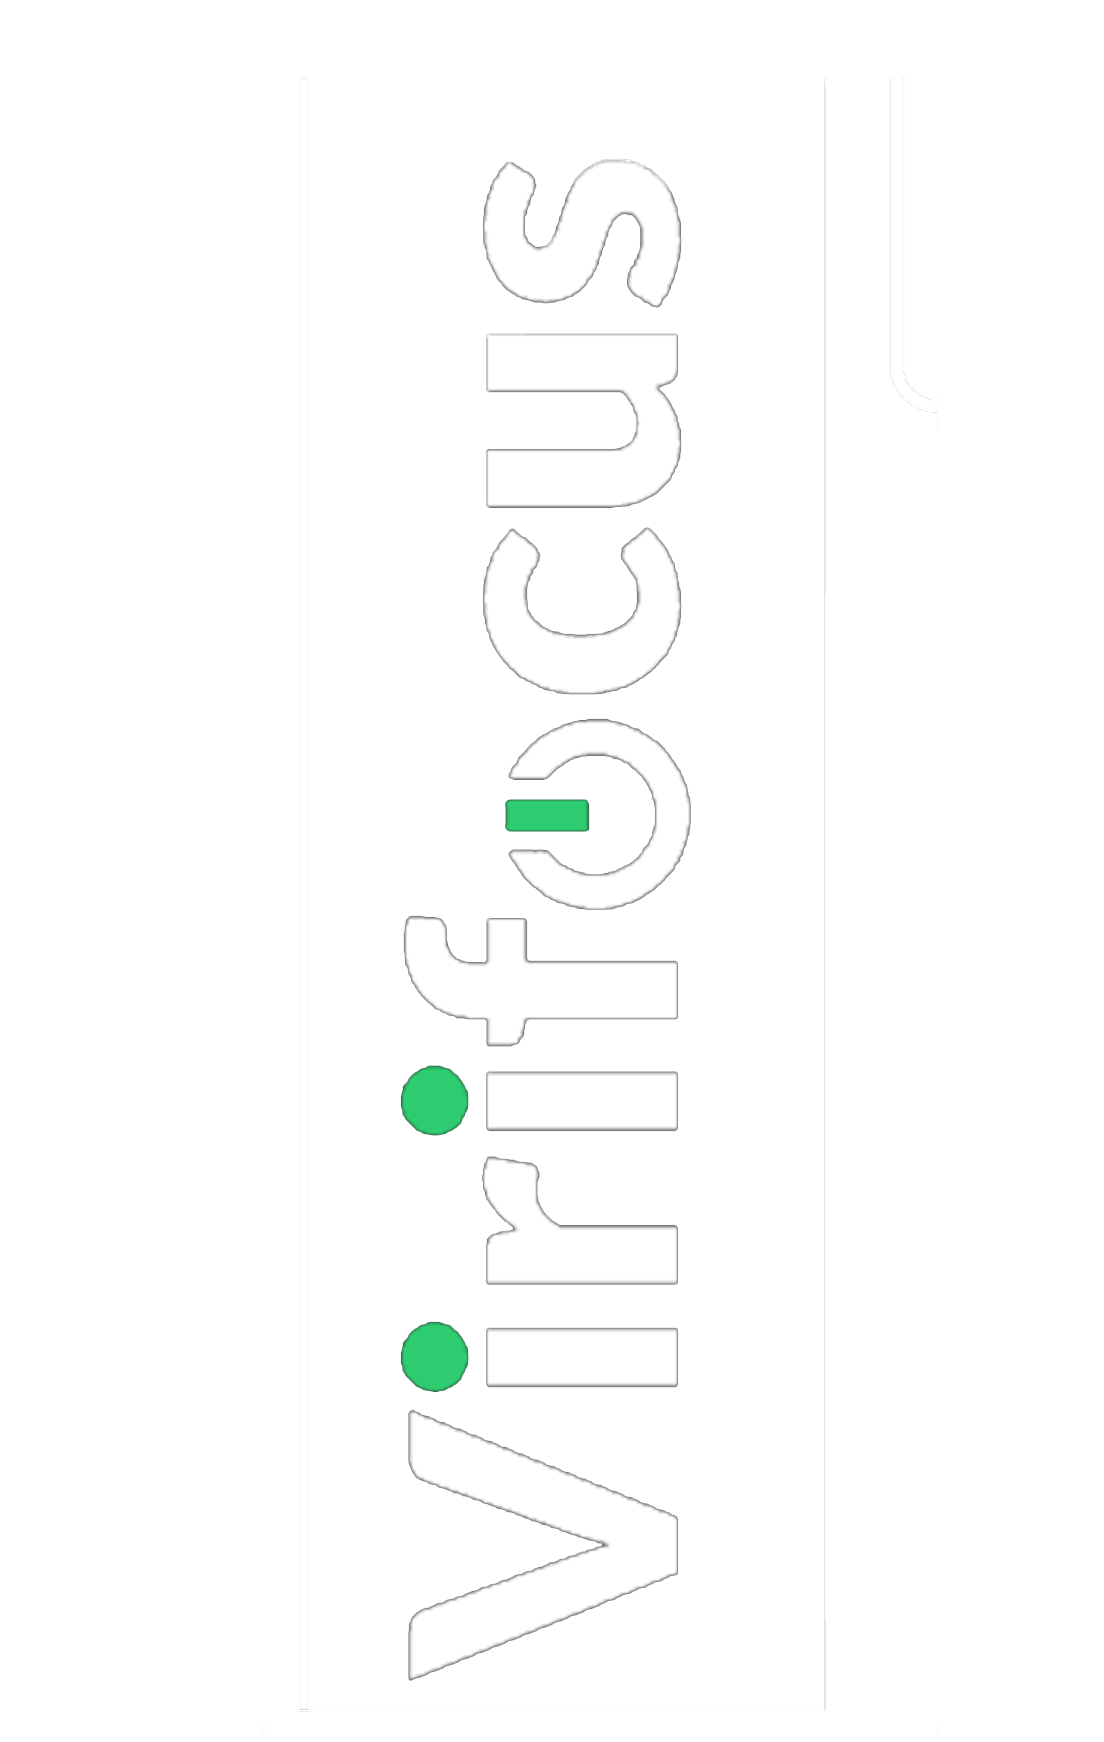
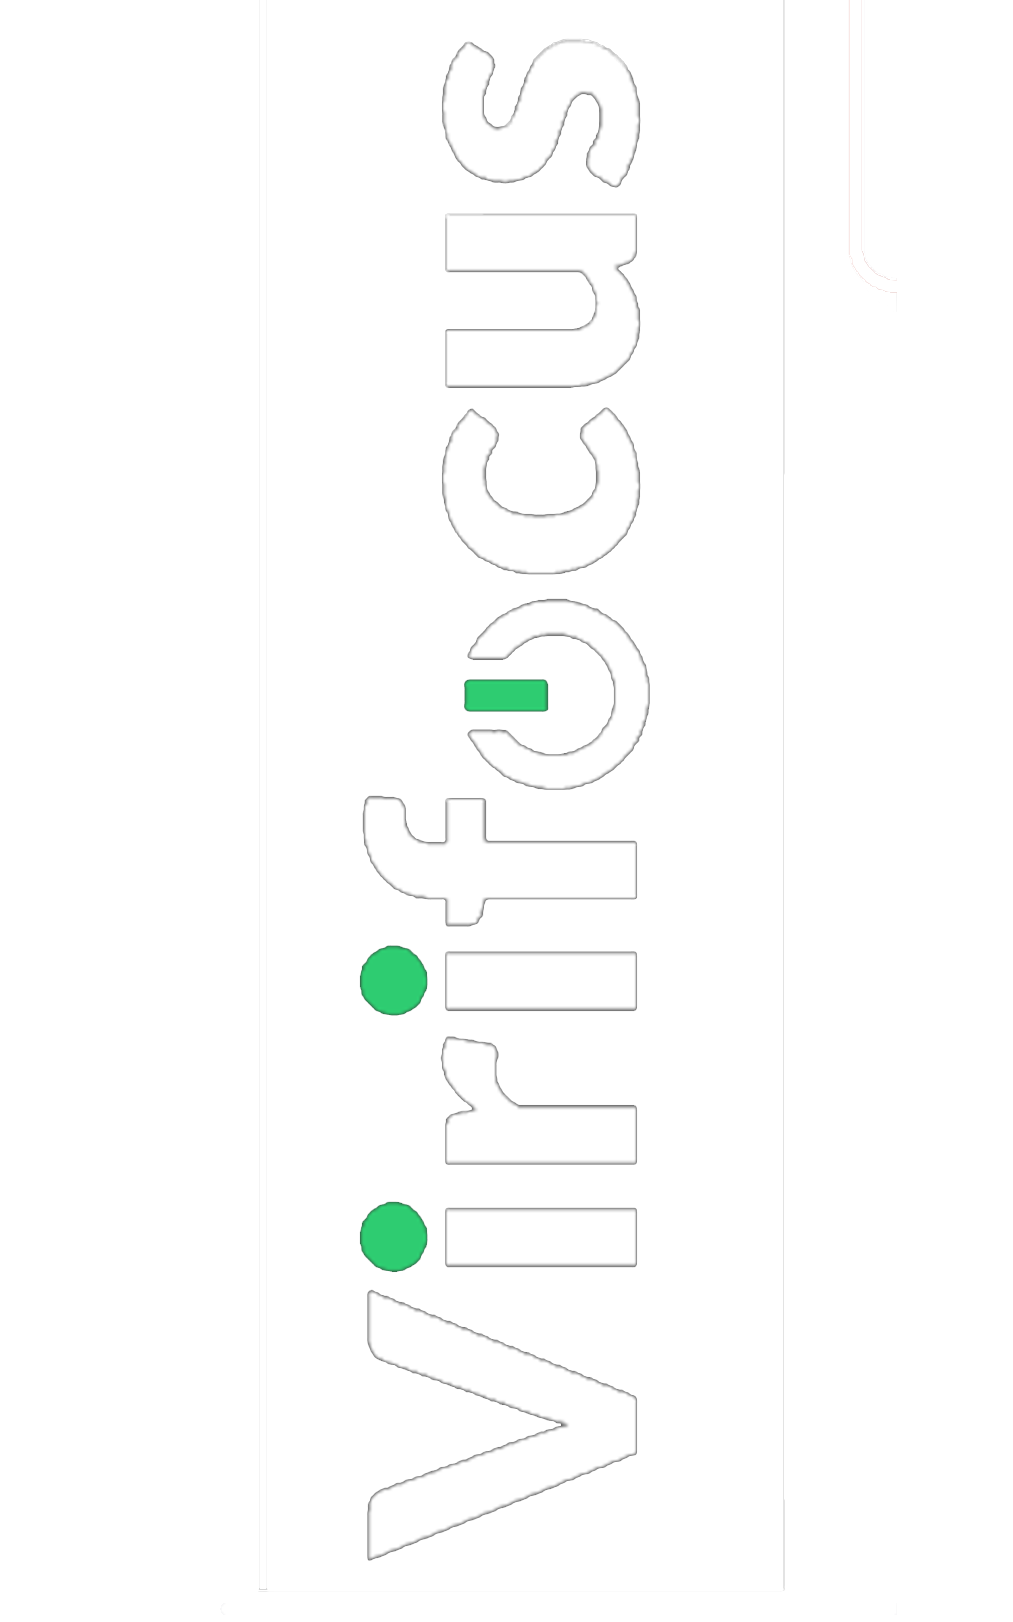
footer et header
mise à jour du footer et du header

diff --git a/app_info/footer.css b/app_info/footer.css
@@ -1,0 +1,39 @@
+
+.boutton{
+	position: absolute;
+	width: 6.5%;
+	height: 4.6%;
+	bottom: 2px;
+}
+.boutton_footer{
+	background-color: #40495E;
+    border:none;
+    cursor: pointer;
+    outline: none;
+    transition: 0.3s;
+    width: 100%;
+    height: 100%;
+    border: 2px solid #40495E;
+    opacity: 0.5;	
+}
+.boutton_footer:hover{
+	background-color: #40495E;
+	opacity: 1;
+}
+
+#footer{
+	color: white;
+	position: absolute;
+    background-color: #40495E;
+    width:100%;
+    height: 5%;
+    border-radius: 1%;
+    transition: 0.5s;
+    bottom: 0;	
+    visibility: hidden;
+    justify-content: center;
+    display: flex;
+    align-items: center;
+    opacity: 0.7;
+}
+

diff --git a/app_info/footer.js b/app_info/footer.js
@@ -1,0 +1,4 @@
+function footer(){
+	document.getElementById("footer").style.visibility="visible";
+	setTimeout(function(){document.getElementById("footer").style.visibility="hidden"},2000);
+}

diff --git a/app_info/header.css b/app_info/header.css
@@ -22,7 +22,7 @@
 }
 
 .virifocus{
-    grid-row: 19/32;
+    grid-row: 18/31;
     background-image: url("image/virifocus.png");
     background-size: cover;
     background-position: center;

diff --git a/app_info/dashboard_maison.php b/app_info/dashboard_maison.php
@@ -97,10 +97,12 @@
                     </div>
                 </div>
 
+                <?php
+                    include "footer.php";
+                ?>
 
             </div>
 
-        </div>
         <div id="fenetre"> 
             <button id="close" onclick="fermer()"> x </button>
             fenetre pop-up 

diff --git a/app_info/footer.php b/app_info/footer.php
@@ -1,0 +1,11 @@
+	<link rel="stylesheet" href="footer.css"/>
+
+	<div class="boutton">
+        <button class="boutton_footer" onclick="footer()">  </button>
+    </div>
+
+	<div id="footer">
+	    footer
+	</div>
+
+	<script src="footer.js"></script>

diff --git a/app_info/dashboard_simple.php b/app_info/dashboard_simple.php
@@ -65,7 +65,9 @@
                     <div class="case23"></div>
                 </div>
 
-
+                <?php
+                    include "footer.php";
+                ?>
 
             </div>
 
